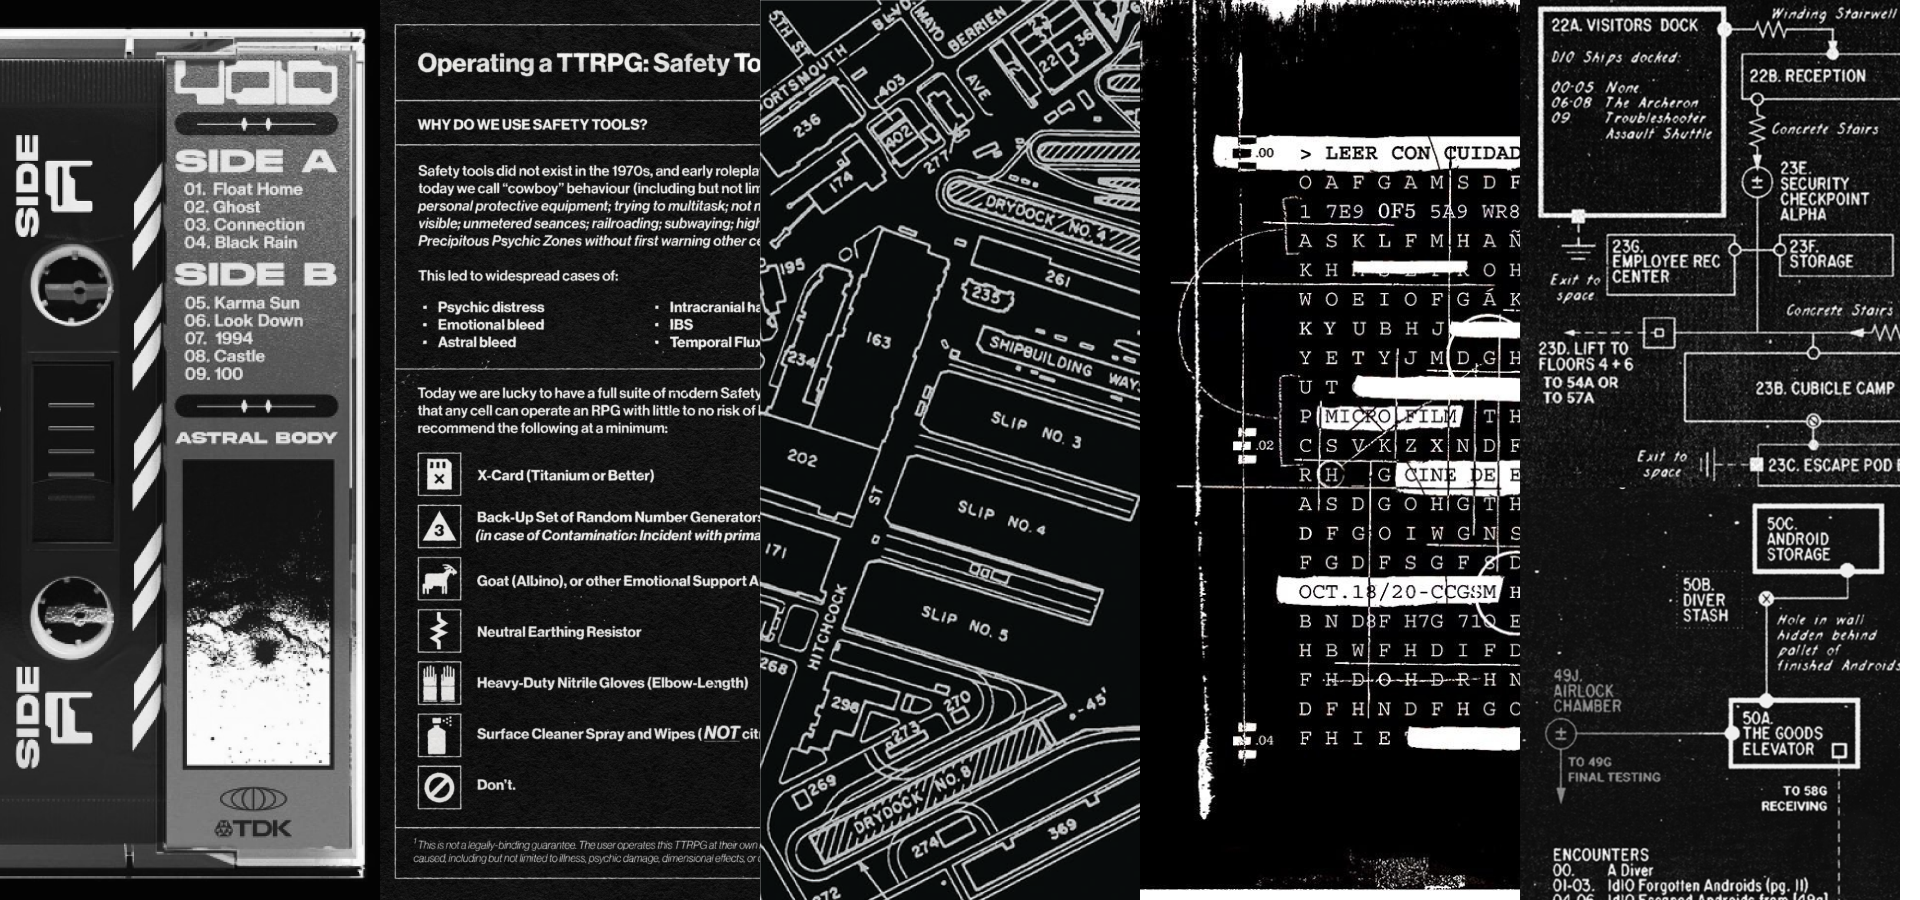
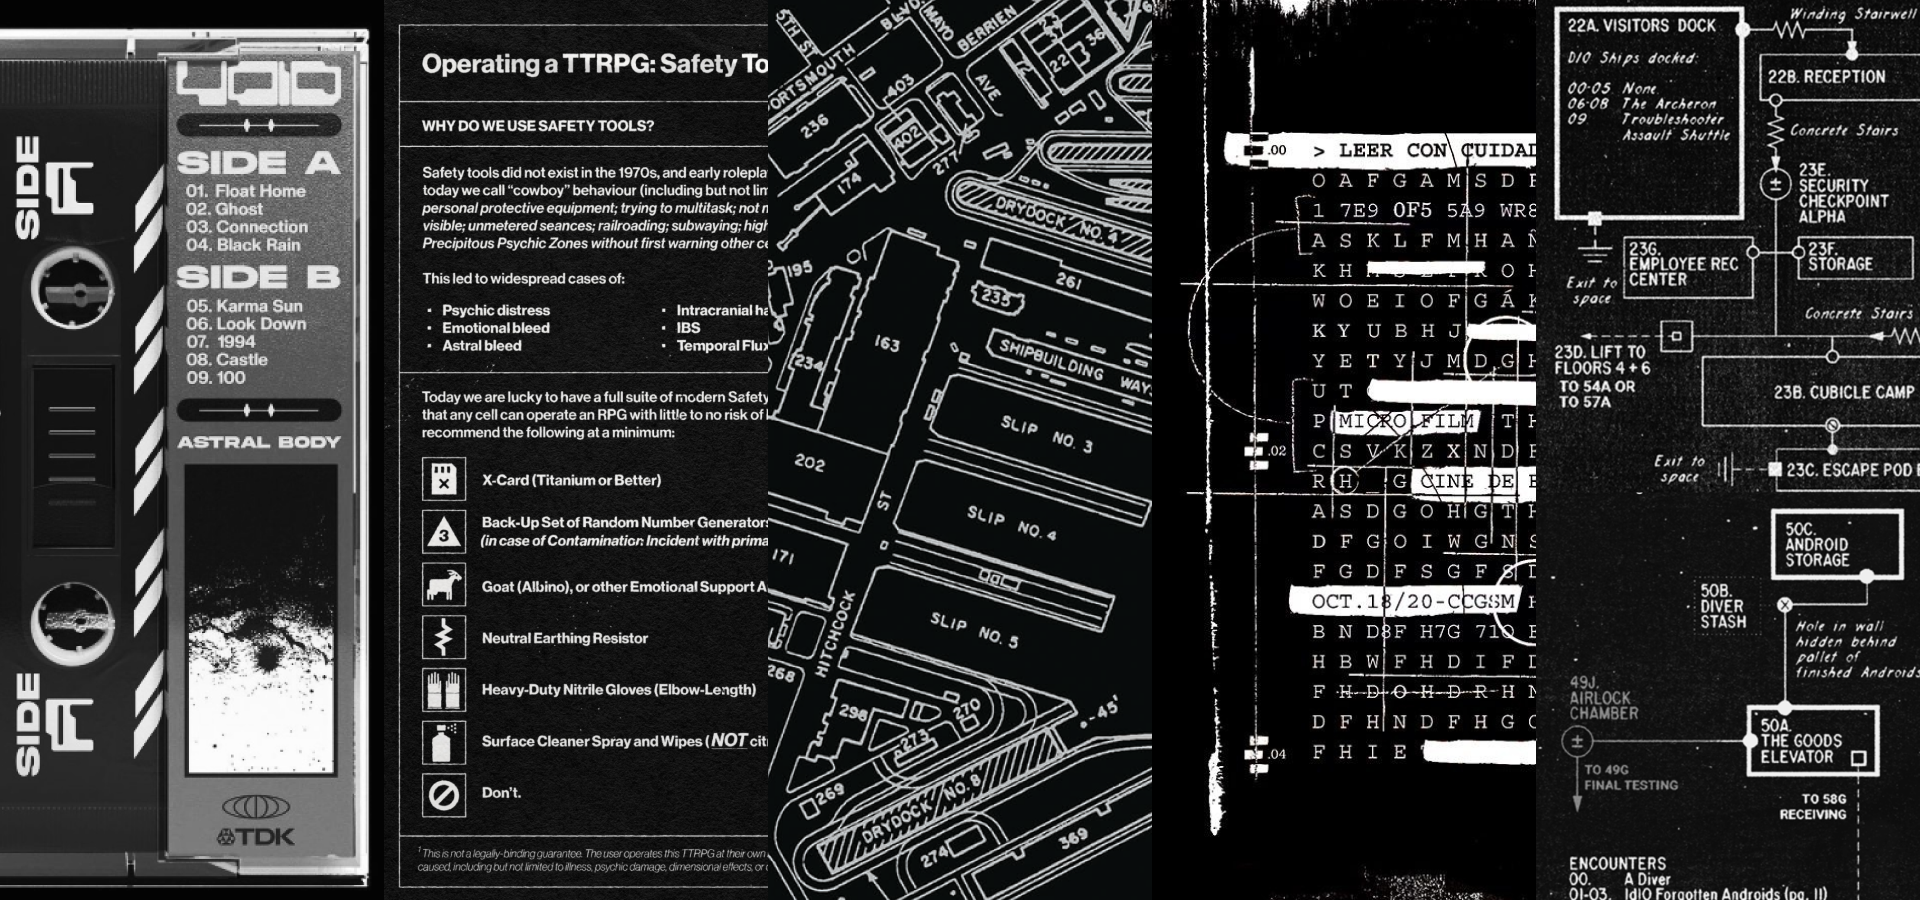
ZP update

diff --git a/portfolio/zero-parades.html b/portfolio/zero-parades.html
@@ -45,12 +45,12 @@ layout: default
 	<div class="center-col">
 		<div class="mobile-sidepad">
 			<h5 style="text-transform: none;">
-				Zero Parades is a narrative driven RPG from ZA/UM studios, where you play a spy 
+				Zero Parades is a narrative driven role playing game from ZA/UM studios, where you play a burnt out spy reconnecting with their old network to attempt an impossible assignment.
 			</h5>
 			<p>
-				As lead UX designer at ZA/UM, I was tasked with developing the menus and gameplay of Zero Parades, for PC and console.
+				As lead UX designer at ZA/UM, I was tasked with developing the menus and gameplay of Zero Parades, for PC and console. 
 				<br>
-
+				I took various features of the game from concept design, through wireframing and UX development, to the final rendered and animated UI. I was primarily focused on orientating the games existing features towards fullfilling the narrative goals, organizing and executing the menu team's workload, and developing the onboarding experience for existing features.
 			</p>
 		<div class="nav-pad"></div>
 	</div>
@@ -63,24 +63,37 @@ layout: default
 	<img alt="Zero Parades moodboard" style="max-width: 100%;" src="/images/portfolio/zp_moodboard_2.png">
 </div>
 
+
 <!-- main content -->
 <div class="center-col">
 	<div class="mobile-sidepad">
-	<h5>title</h5>
+		<h5>UX Feature Team</h5>
 
-	<p>
-	paragraph
-	<br><br>
-	paragraph
-	</p>
+		<p>
+			Coming into the project, I was given a team of 6 developers of different diciplines to lead, as the UX feature team. In this role, I prioritized and costed menus and gameplay elements based on ungency and scale, ensuring the specifications were in scope, and developed in verifiable stages from concept to shippable.
+		</p>
 	</div>
 </div>
 
+<div class="wide-pic-holder">
+	<img alt="feature team production chart" style="max-width: 100%;" src="/images/portfolio/menu_planning_1400.png">
+</div>
+
+
 <div class="center-col">
 	<div class="mobile-sidepad">
+		<p>
+		In working with the art team, I translated concept art into a consistent visual design language, ascribing design patterns to relevant visual elements, in order to create a formal design language for the game. We maintained a dialoge with the art team throughout produciton to ensure the aesthetic was maintained.
+		</p>
+	
+	</div>
+</div>
 
 
-I came into the project late into development. my role was 
+
+
+Had to chat to other leads to make so many docs
+
 
 
 
@@ -93,14 +106,7 @@ gameplay design
 
 
 
-
-
-<h5>Concept art</h5>
-
-I came in to translate concept art into consistent visual design, elements, interactivity, patterns
-(Concepts -> olesias art -> UI designs)
-
-
+I was determined that the game have broad accessibiliy options, to cater to as many people as possible.
 
 
 